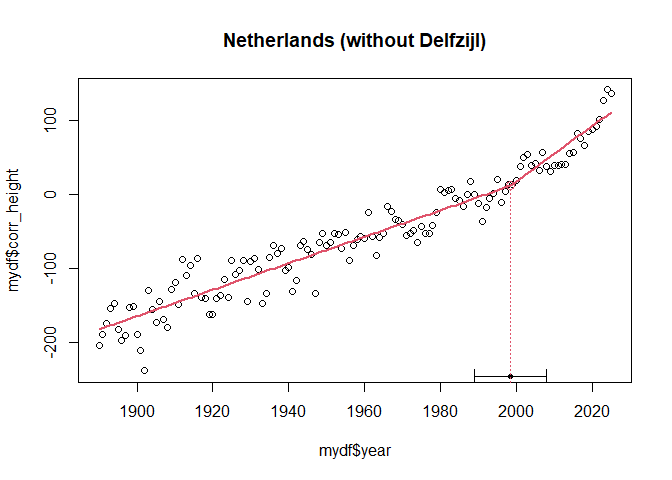
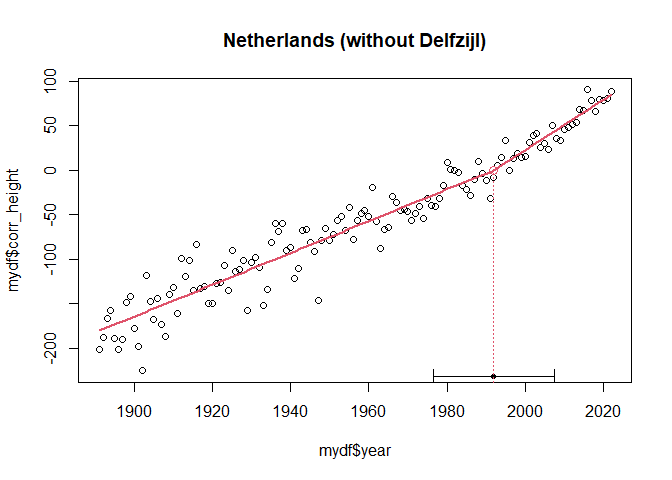
adapted to show multiple years

diff --git a/analysis/sealevelmonitor/breakpoints_analyse.md b/analysis/sealevelmonitor/breakpoints_analyse.md
@@ -12,6 +12,8 @@ This was done for two reasons:
 - Analyses showed that global and Dutch sea level in the beginning of
   the 1990’s was lower than expected. One of the explanations was a
   global temperature drop due to the Pinatubo eruption
+- Earlier analysis showed a breakpoint in 1993 based on the measurements
+  (Zeespiegelmonitor 2018)
 - By choosing the year 1993, the trend of the part after the break could
   be easily compared to trends calculated from satellite observations,
   as they also start in this year. At the same time, the connection with
@@ -23,33 +25,30 @@ change, or that the model is no longer valid.
 
 ## Read sea level data
 
-``` r
-  df <- read_delim(file.path("../", "../data/deltares/input/psmsl_gtsm_yr-latest.csv"), delim = ";") %>%
-  # filter(station %in% params$station) %>%
-  filter(year >= 1890)
-```
-
-## Find breakpoints for broken linear regression
-
-Note: no correction is made for nodal tide in this implementation.
+Read predictions table, in order to use the estimates for nodal tide
+(and storm surge) to correct the measured height.
 
 ``` r
-library(segmented)
+df <- read_csv(, file = "../../results/analysis_output/predictions_latest.csv") %>%
+filter(year >= 1890)
 ```
 
-Breakpoint function
+## Find breakpoints for broken linear regression in Sea Level time series
+
+Breakpoint function that looks for breakpoints in the corrected (for
+nodal cycle and surge anomaly) water level measurements:
 
 ``` r
 slm_breakpoint <- function(
     df, 
-    mystation = "Netherlands (without Delfzijl)", 
+    mystation = "Netherlands (without Delfzijl)",
     startyear = 1890, 
     endyear = 2025,
     n_bp, 
     printsummary = F
     ) {
 
-  nr_of_breakpoints = 2
+  nr_of_breakpoints = n_bp
   
   mydf = df %>% 
     filter(
@@ -57,19 +56,19 @@ slm_breakpoint <- function(
       year >= startyear,
       year <= endyear
     ) %>%
-    mutate(corr_height = height - surge_anomaly) %>%
+    mutate(corr_height = height - surge_anomaly - nodal_tide) %>%
     group_by(year) %>%
     summarize(corr_height = mean(corr_height))
   
-  fit_lm = lm(corr_height ~ year, data = mydf )  # intercept-only model
+  fit_lm = lm(corr_height ~ year, data = mydf )  
   
   fit_segmented = selgmented(
-    fit_lm, 
+    fit_lm,
     seg.Z = ~year,
     Kmax = nr_of_breakpoints,
     type = "aic",
     bonferroni = TRUE,
-    plot.ic = TRUE
+    plot.ic = F
   )  # Two change points along x
   
  
@@ -88,60 +87,105 @@ slm_breakpoint <- function(
 }
 ```
 
+And apply this on time series from a few years back to now.
+
 ``` r
-slm_breakpoint(df, 
-               mystation = "Netherlands (without Delfzijl)",
-               startyear = 1890,
-               endyear = 2025,
-               n_bp = 4, 
-               printsummary = T
-               )
+walk(
+  c(2021, 2022, 2023, 2024, 2025),
+  \(x) {
+    cat("\nSea level breakpoint analysis for the year ", x, "\n\n")
+    slm_breakpoint(df, 
+                   # mystation = "Den Helder",
+                   mystation = "Netherlands (without Delfzijl)",
+                   startyear = 1890,
+                   endyear = x,
+                   n_bp = 4, 
+                   printsummary = T
+    )
+  }  
+)
 ```
 
-    FALSE No. of breakpoints: 2 ..
+    FALSE 
+    FALSE Sea level breakpoint analysis for the year  2021 
+    FALSE 
+    FALSE No. of breakpoints: 2 .. 3 .. 4 .. 
+    FALSE 
+    FALSE AIC to detect no. of breakpoints:
+    FALSE        0        1        2        3        4 
+    FALSE 1170.563 1164.357 1164.594 1168.443 1172.214 
+    FALSE 
+    FALSE No. of selected breakpoints: 1
 
 ![](breakpoints_analyse_files/figure-gfm/runBreakpoint-1.png)<!-- -->
 
     FALSE 
+    FALSE Sea level breakpoint analysis for the year  2022 
+    FALSE 
+    FALSE No. of breakpoints: 2 .. 3 .. 4 .. 
+    FALSE 
     FALSE AIC to detect no. of breakpoints:
-    FALSE        0        1        2 
-    FALSE 1254.879 1233.686 1236.232 
+    FALSE        0        1        2        3        4 
+    FALSE 1179.671 1172.214 1172.392 1176.300 1179.477 
     FALSE 
     FALSE No. of selected breakpoints: 1
 
 ![](breakpoints_analyse_files/figure-gfm/runBreakpoint-2.png)<!-- -->
 
     FALSE 
-    FALSE   ***Regression Model with Segmented Relationship(s)***
+    FALSE Sea level breakpoint analysis for the year  2023 
     FALSE 
-    FALSE Call: 
-    FALSE segmented.lm(obj = olm, seg.Z = seg.Z, npsi = 1, control = control1)
+    FALSE No. of breakpoints: 2 .. 3 .. 4 .. 
     FALSE 
-    FALSE Estimated Break-Point(s):
-    FALSE                Est. St.Err
-    FALSE psi1.year 1998.552  4.801
+    FALSE AIC to detect no. of breakpoints:
+    FALSE        0        1        2        3        4 
+    FALSE 1192.245 1181.616 1181.690 1185.642 1189.064 
     FALSE 
-    FALSE Coefficients of the linear terms:
-    FALSE               Estimate Std. Error t value Pr(>|t|)    
-    FALSE (Intercept) -3.559e+03  1.307e+02 -27.228   <2e-16 ***
-    FALSE year         1.787e+00  6.723e-02  26.576   <2e-16 ***
-    FALSE U1.year      1.974e+00  5.498e-01   3.591       NA    
-    FALSE ---
-    FALSE Signif. codes:  0 '***' 0.001 '**' 0.01 '*' 0.05 '.' 0.1 ' ' 1
-    FALSE 
-    FALSE Residual standard error: 22.08 on 132 degrees of freedom
-    FALSE Multiple R-Squared: 0.929,  Adjusted R-squared: 0.9273 
-    FALSE 
-    FALSE Convergence attained in 3 iterations (rel. change 1.2247e-11)
+    FALSE No. of selected breakpoints: 1
 
-From this analysis, the best fit is using one breakpoint at 1998 +/- 5
-years. The currently used breakpoint (1993) is just within this standard
-error of the estimate.
+![](breakpoints_analyse_files/figure-gfm/runBreakpoint-3.png)<!-- -->
+
+    FALSE 
+    FALSE Sea level breakpoint analysis for the year  2024 
+    FALSE 
+    FALSE No. of breakpoints: 2 .. 3 .. 4 .. 
+    FALSE 
+    FALSE AIC to detect no. of breakpoints:
+    FALSE        0        1        2        3        4 
+    FALSE 1207.525 1191.685 1192.674 1193.632 1197.629 
+    FALSE 
+    FALSE No. of selected breakpoints: 1
+
+![](breakpoints_analyse_files/figure-gfm/runBreakpoint-4.png)<!-- -->
+
+    FALSE 
+    FALSE Sea level breakpoint analysis for the year  2025 
+    FALSE 
+    FALSE No. of breakpoints: 2 .. 3 .. 4 .. 
+    FALSE 
+    FALSE AIC to detect no. of breakpoints:
+    FALSE        0        1        2        3        4 
+    FALSE 1221.117 1200.540 1201.644 1201.772 1205.769 
+    FALSE 
+    FALSE No. of selected breakpoints: 1
+
+![](breakpoints_analyse_files/figure-gfm/runBreakpoint-5.png)<!-- -->
+
+What can be seen is that the optimal breakpoint was around 1993 untill
+the last two measurements (years) were added. Because of the “cluster”
+of high sea level at the end of the time series, the breakpoint is
+pulled towards the end, making the final part of the regression
+steepter.
+
+For use in the Sea Level Monitor, where we want a rather conservative
+method, we choose to still keep 1993 as a breakpoint year for the
+analyses. Depending on future sea level measurements, this may turn out
+to be more or less conservative.
 
 ## surge
 
 Wind surge is determined with the Global Tide and Surge Model (GTSM).
-The following part tests whether ther is any breakpoint in the surge
+The following part tests whether there is any breakpoint in the surge
 data.
 
 ``` r
@@ -199,7 +243,7 @@ surge_breakpoint(df %>% filter(year >= 1950),
     FALSE 
     FALSE AIC to detect no. of breakpoints:
     FALSE        0        1        2 
-    FALSE 699.9564 703.8843 707.1042 
+    FALSE 2087.869 2091.653 2095.413 
     FALSE 
     FALSE No. of selected breakpoints:  0
 
@@ -212,13 +256,13 @@ surge_breakpoint(df %>% filter(year >= 1950),
     FALSE -70.30 -16.95   0.67  19.22  52.78 
     FALSE 
     FALSE Coefficients:
-    FALSE             Estimate Std. Error t value Pr(>|t|)
-    FALSE (Intercept)  40.5488   244.9445   0.166    0.869
-    FALSE year         -0.0204     0.1232  -0.166    0.869
+    FALSE              Estimate Std. Error t value Pr(>|t|)
+    FALSE (Intercept)  40.54880  140.16170   0.289    0.773
+    FALSE year         -0.02040    0.07052  -0.289    0.773
     FALSE 
-    FALSE Residual standard error: 23.57 on 74 degrees of freedom
-    FALSE Multiple R-squared:  0.0003702,   Adjusted R-squared:  -0.01314 
-    FALSE F-statistic: 0.02741 on 1 and 74 DF,  p-value: 0.869
+    FALSE Residual standard error: 23.36 on 226 degrees of freedom
+    FALSE Multiple R-squared:  0.0003702,   Adjusted R-squared:  -0.004053 
+    FALSE F-statistic: 0.0837 on 1 and 226 DF,  p-value: 0.7726
 
 There are no breakpoints detected in the surge anomaly time series.
 
